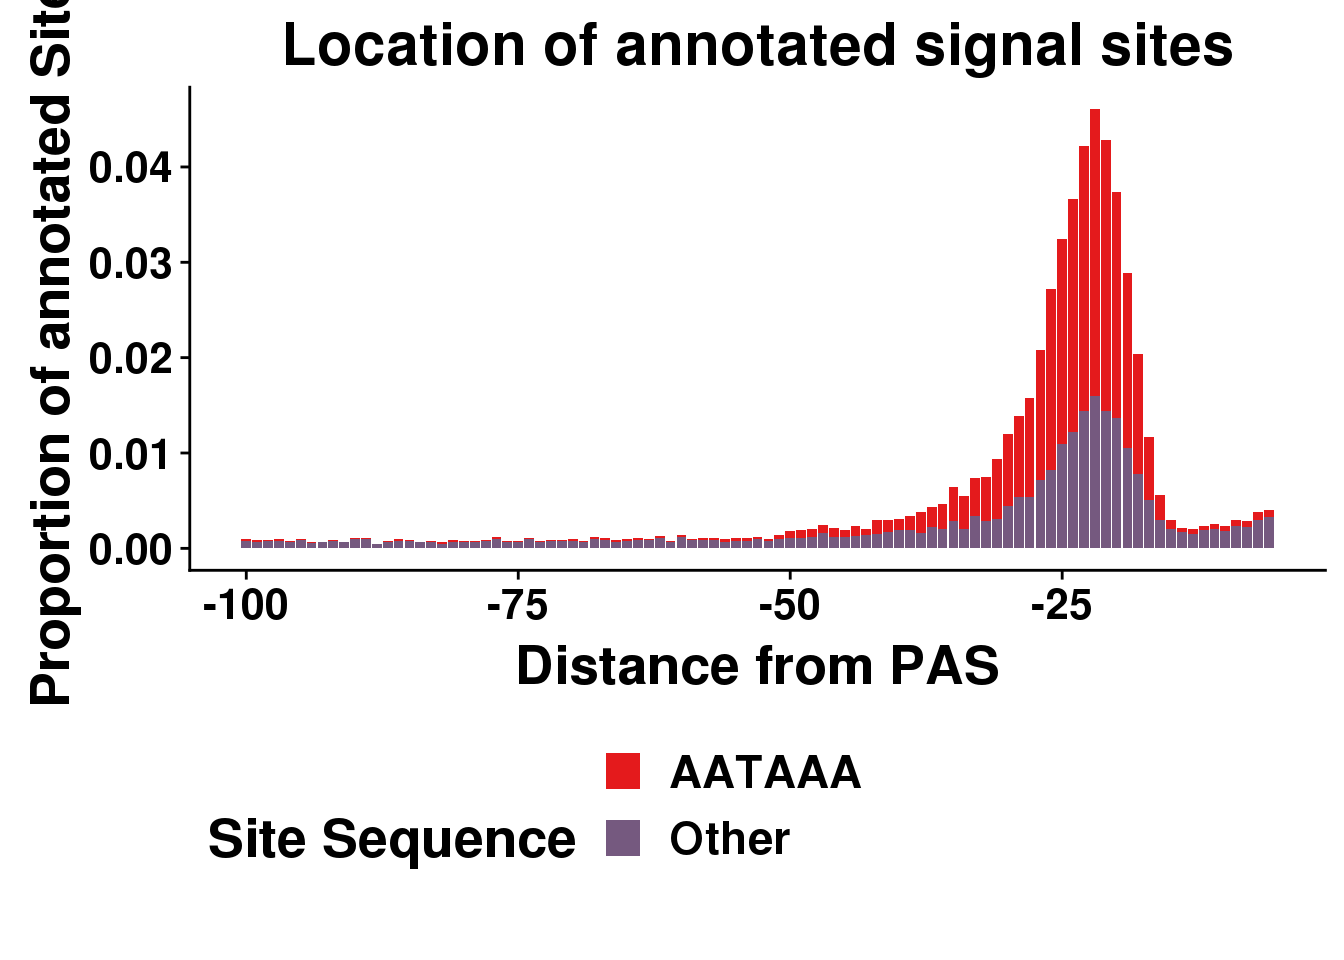
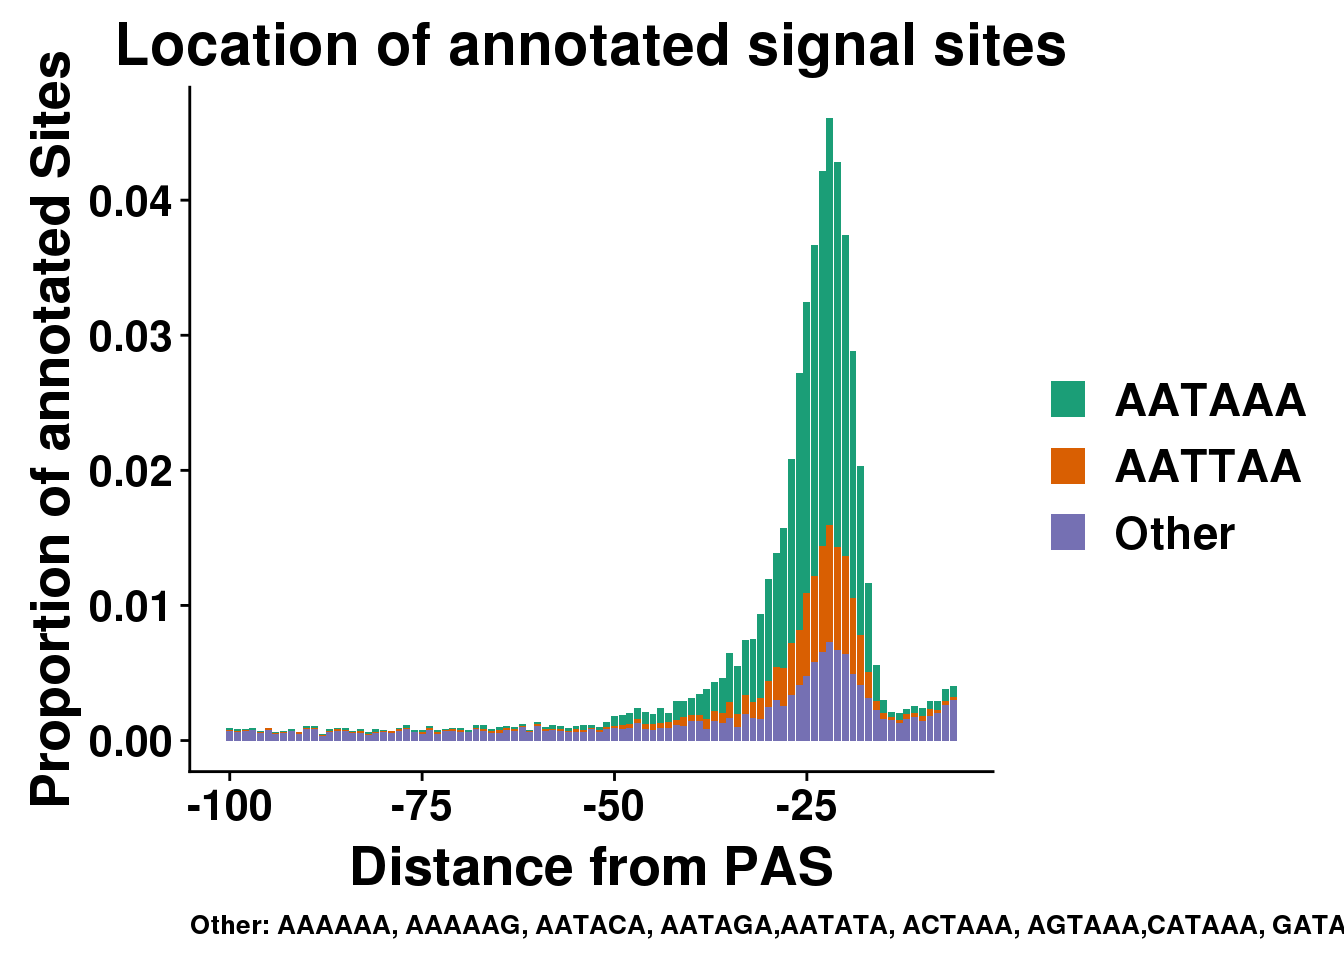
Build site.

Changed region(s): [[0.0, 0.0, 1.0, 0.9688]]

diff --git a/docs/signalsiteanalysis.html b/docs/signalsiteanalysis.html
@@ -478,10 +478,10 @@ environment
 <div class="panel panel-default">
 <div class="panel-heading">
 <p class="panel-title">
-<a data-toggle="collapse" data-parent="#workflowr-checks" href="#strongRepositoryversionstrongahrefhttpsgithubcombrimittlemanapaQTLtree64bcc4874e253eb5e97fc13aae9a547d62a03b00targetblank64bcc48a"> <span class="glyphicon glyphicon-ok text-success" aria-hidden="true"></span> <strong>Repository version:</strong> <a href="https://github.com/brimittleman/apaQTL/tree/64bcc4874e253eb5e97fc13aae9a547d62a03b00" target="_blank">64bcc48</a> </a>
+<a data-toggle="collapse" data-parent="#workflowr-checks" href="#strongRepositoryversionstrongahrefhttpsgithubcombrimittlemanapaQTLtree07e766f704e52513443c321b65d7330d61b9ec9atargetblank07e766fa"> <span class="glyphicon glyphicon-ok text-success" aria-hidden="true"></span> <strong>Repository version:</strong> <a href="https://github.com/brimittleman/apaQTL/tree/07e766f704e52513443c321b65d7330d61b9ec9a" target="_blank">07e766f</a> </a>
 </p>
 </div>
[2 lines of base64/hex data omitted]
 <div class="panel-body">
 <p>
 Great! You are using Git for version control. Tracking code development and connecting the code version to the results is critical for reproducibility. The version displayed above was the version of the Git repository at the time these results were generated. <br><br> Note that you need to be careful to ensure that all relevant files for the analysis have been committed to Git prior to generating the results (you can use <code>wflow_publish</code> or <code>wflow_git_commit</code>). workflowr only checks the R Markdown file, but you know if there are other scripts or data files that it depends on. Below is the status of the Git repository when the results were generated:
@@ -491,7 +491,6 @@ Ignored files:
     Ignored:    .DS_Store
     Ignored:    .Rhistory
     Ignored:    .Rproj.user/
-    Ignored:    analysis/figure/
     Ignored:    data/.DS_Store
     Ignored:    output/.DS_Store
 
@@ -1201,6 +1200,40 @@ Message
 </tr>
 </thead>
 <tbody>
+<tr>
+<td>
+Rmd
+</td>
+<td>
+<a href="https://github.com/brimittleman/apaQTL/blob/07e766f704e52513443c321b65d7330d61b9ec9a/analysis/signalsiteanalysis.Rmd" target="_blank">07e766f</a>
+</td>
+<td>
+brimittleman
+</td>
+<td>
+2019-07-17
+</td>
+<td>
+3 color signal stie plot
+</td>
+</tr>
+<tr>
+<td>
+html
+</td>
+<td>
+<a href="https://rawcdn.githack.com/brimittleman/apaQTL/16e42127b78ce026afbb09a0062151a22f3462db/docs/signalsiteanalysis.html" target="_blank">16e4212</a>
+</td>
+<td>
+brimittleman
+</td>
+<td>
+2019-07-17
+</td>
+<td>
+Build site.
+</td>
+</tr>
 <tr>
 <td>
 Rmd
@@ -2271,12 +2304,50 @@ brimittleman
 </div>
 <div id="plot-color-cononical-vs-non-cononical" class="section level2">
 <h2>Plot color cononical vs non cononical:</h2>
-<pre class="r"><code>AllsiteDF_1per_prop_col= AllsiteDF_1per_prop %&gt;% mutate(Cononical=ifelse(Site==&quot;AATAAA&quot;, &quot;AATAAA&quot;, &quot;Other&quot;))
+<pre class="r"><code>AllsiteDF_1per_prop_col= AllsiteDF_1per_prop %&gt;% mutate(Cononical=ifelse(Site==&quot;AATAAA&quot;, &quot;AATAAA&quot;, ifelse(Site==&quot;ATTAAA&quot;, &quot;AATTAA&quot;, &quot;Other&quot;)))
 
-dist2signalsiteplotprop=ggplot(AllsiteDF_1per_prop_col, aes(group=Cononical, x=NegCount,y=prop, fill=Cononical)) + geom_histogram(position=&quot;stack&quot;,bins=50,stat=&quot;identity&quot; ) + labs(x=&quot;Distance from PAS&quot;, y=&quot;Proportion of annotated Sites&quot;, title=&quot;Location of annotated signal sites&quot;,fill=&quot;Site Sequence&quot;) +  scale_fill_manual(values = getPalette(colourCount))+ theme(text = element_text(size=20, face=&quot;bold&quot;),axis.text.x = element_text(size = 16),axis.text.y = element_text(size = 16), legend.position = &quot;bottom&quot;,plot.title = element_text(size=22))+ guides(fill=guide_legend(nrow=3,byrow=TRUE))</code></pre>
+dist2signalsiteplotprop=ggplot(AllsiteDF_1per_prop_col, aes(group=Cononical, x=NegCount,y=prop, fill=Cononical)) + geom_histogram(position=&quot;stack&quot;,bins=50,stat=&quot;identity&quot; ) + labs(x=&quot;Distance from PAS&quot;, y=&quot;Proportion of annotated Sites&quot;, title=&quot;Location of annotated signal sites&quot;,fill=&quot; &quot;, caption = &quot;Other: AAAAAA, AAAAAG, AATACA, AATAGA,AATATA, ACTAAA, AGTAAA,CATAAA, GATAAA,TATAAA&quot;) +  scale_fill_brewer(palette=&quot;Dark2&quot;)+ theme(text = element_text(size=20, face=&quot;bold&quot;),axis.text.x = element_text(size = 16),axis.text.y = element_text(size = 16),plot.title = element_text(size=22),plot.caption = element_text(hjust = 0,size=10))+ guides(fill=guide_legend(nrow=3,byrow=TRUE))  </code></pre>
 <pre><code>Warning: Ignoring unknown parameters: binwidth, bins, pad</code></pre>
-<pre class="r"><code>dist2signalsiteplotprop</code></pre>
+<pre class="r"><code>dist2signalsiteplotprop </code></pre>
 <p><img src="figure/signalsiteanalysis.Rmd/unnamed-chunk-28-1.png" width="672" style="display: block; margin: auto;" /></p>
+<p>
+<button type="button" class="btn btn-default btn-xs btn-workflowr btn-workflowr-fig" data-toggle="collapse" data-target="#fig-unnamed-chunk-28-1">
+Past versions of unnamed-chunk-28-1.png
+</button>
+</p>
+<div id="fig-unnamed-chunk-28-1" class="collapse">
+<div class="table-responsive">
+<table class="table table-condensed table-hover">
+<thead>
+<tr>
+<th>
+Version
+</th>
+<th>
+Author
+</th>
+<th>
+Date
+</th>
+</tr>
+</thead>
+<tbody>
+<tr>
+<td>
+<a href="https://github.com/brimittleman/apaQTL/blob/16e42127b78ce026afbb09a0062151a22f3462db/docs/figure/signalsiteanalysis.Rmd/unnamed-chunk-28-1.png" target="_blank">16e4212</a>
+</td>
+<td>
+brimittleman
+</td>
+<td>
+2019-07-17
+</td>
+</tr>
+</tbody>
+</table>
+</div>
+</div>
+<pre class="r"><code>#scale_fill_discrete(name=&quot;Site&quot;, labels=c(&quot;AATAAA&quot;,&quot;ATTAAA&quot;, &quot;AAAAAA, AAAAAG, AATACA, AATAGA, AATATA, ACTAAA, AGTAAA,CATAAA, GATAAA,TATAAA&quot;)</code></pre>
 <br>
 <p>
 <button type="button" class="btn btn-default btn-workflowr btn-workflowr-sessioninfo" data-toggle="collapse" data-target="#workflowr-sessioninfo" style="display: block;">
